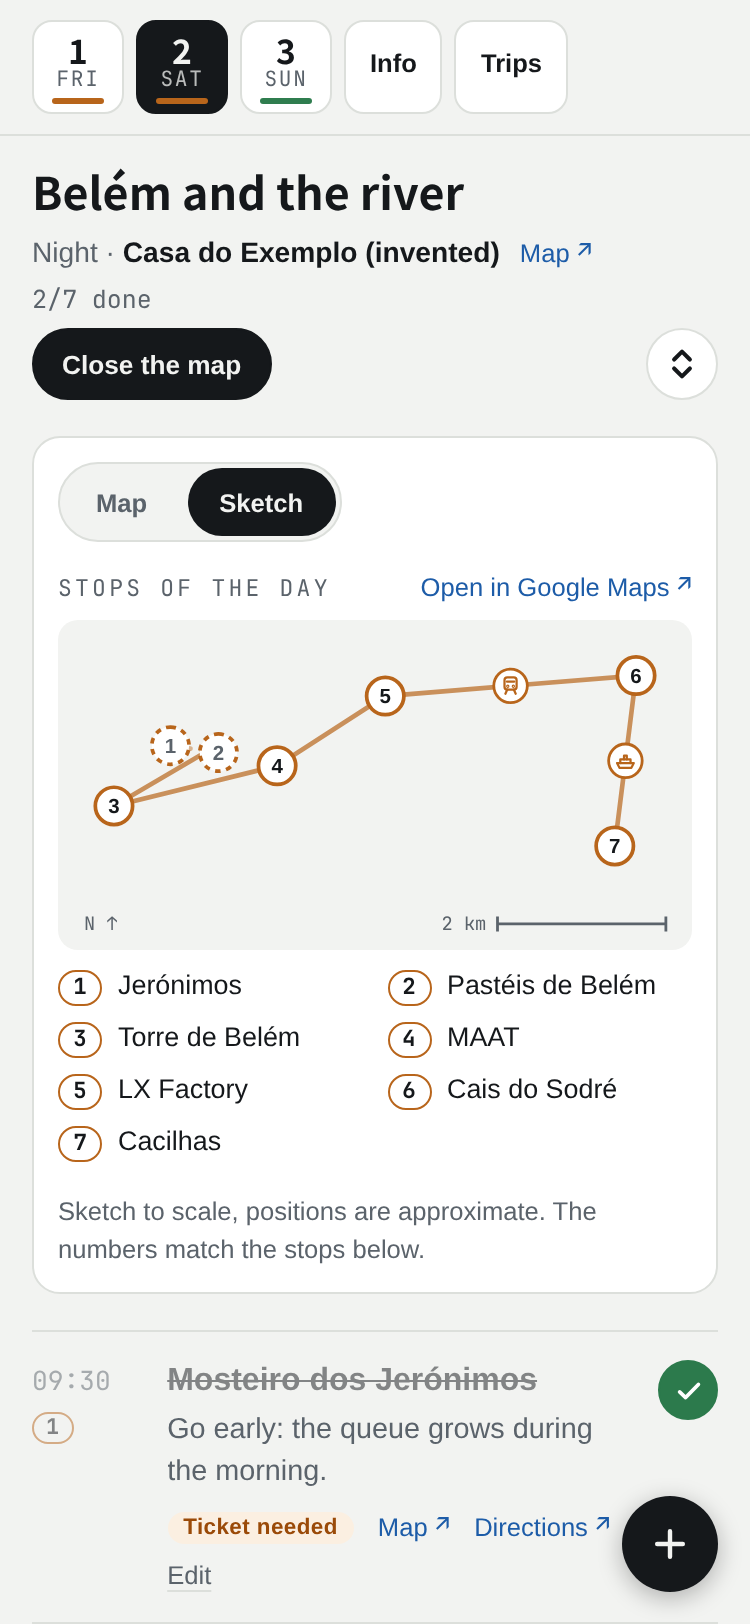
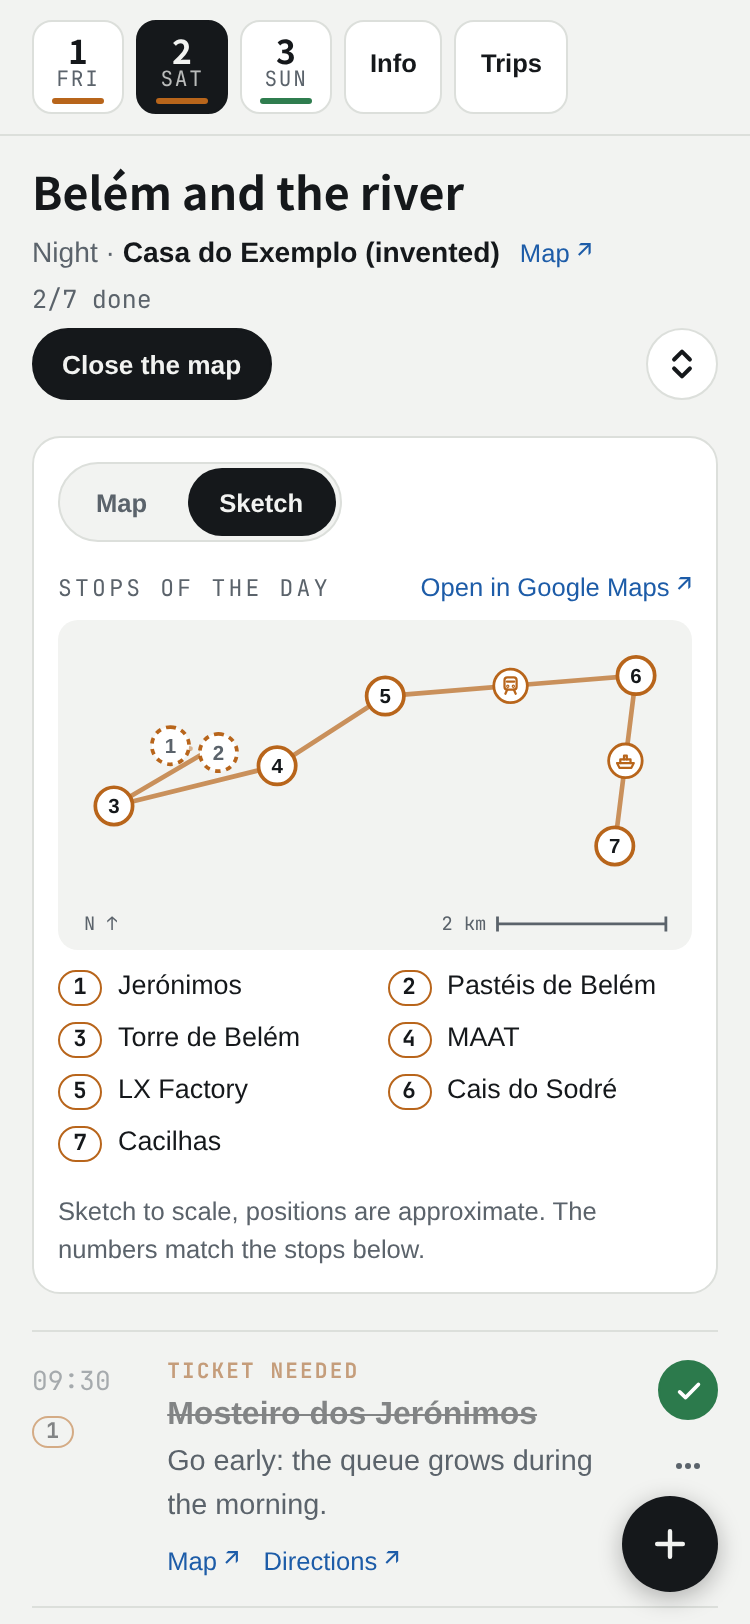
TIMP 2.1.0: a more compact stop
- The travel icon moves to the left column, under the time and the pin
  number; the title starts at the edge and has the whole line.
- Labels ("Booking needed", "Optional") sit above the title, small.
- Skip and Edit move into a ⋯ menu under the tick, so Map and Directions
  stay on one line. The menu takes the keyboard (arrows, Escape), closes on a
  tap outside, and opens upwards when there is no room below.
- README, interface texts and screenshots follow; the browser check covers
  the menu (23 checks).

Changed region(s): [[0.2147, 0.8313, 0.7973, 0.9852], [0.0307, 0.8621, 0.092, 0.8929]]

diff --git a/js/app.js b/js/app.js
@@ -15,6 +15,7 @@ const CHEVRON = '<svg viewBox="0 0 16 16" fill="none" aria-hidden="true"><path d
 const UNFOLD = '<svg viewBox="0 0 16 16" fill="none" aria-hidden="true"><path d="M4.5 6L8 2.5 11.5 6M4.5 10L8 13.5 11.5 10" stroke="currentColor" stroke-width="1.8" stroke-linecap="round" stroke-linejoin="round"/></svg>';
 const FOLD = '<svg viewBox="0 0 16 16" fill="none" aria-hidden="true"><path d="M4.5 2.5L8 6l3.5-3.5M4.5 13.5L8 10l3.5 3.5" stroke="currentColor" stroke-width="1.8" stroke-linecap="round" stroke-linejoin="round"/></svg>';
 const PLUS = '<svg viewBox="0 0 24 24" fill="none" aria-hidden="true"><path d="M12 5v14M5 12h14" stroke="currentColor" stroke-width="2.4" stroke-linecap="round"/></svg>';
+const DOTS = '<svg viewBox="0 0 16 16" aria-hidden="true"><circle cx="3.5" cy="8" r="1.5" fill="currentColor"/><circle cx="8" cy="8" r="1.5" fill="currentColor"/><circle cx="12.5" cy="8" r="1.5" fill="currentColor"/></svg>';
 const CHECK = '<svg viewBox="0 0 16 16" fill="none" aria-hidden="true"><path d="M3 8.5l3.2 3L13 4.5" stroke="currentColor" stroke-width="2" stroke-linecap="round" stroke-linejoin="round"/></svg>';
 
 const S = {
@@ -25,6 +26,7 @@ const S = {
   langPref: "auto",       // "auto" follows the trip, or a language chosen on this device
   theme: document.documentElement.dataset.theme || "auto",   // set early by js/theme.js
   openStops: new Map(),   // descriptions opened or closed one by one, until the page is closed
+  menuFor: null,          // the stop whose ⋯ menu is open
   deviceKey: "",
   useGoogle: true,        // false: always OpenStreetMap, even with a key (saves Google map loads)
   importError: null,      // {title, items}
@@ -519,20 +521,27 @@ function stopsHTML(day, planId, list, numbered, pins){
     const id = stopKey(day, planId, s, i);
     const isDone = !!S.state.done[id], isSkipped = !isDone && !!S.state.skipped[id], open = isOpen(id);
     const q = stopQuery(s);
-    // Links and the skip button stay outside the part that folds: they are always one tap away.
-    const meta = `<div class="meta">${isSkipped ? `<span class="tag off">${esc(t("skipped"))}</span>` : ""}${s.tag ? `<span class="tag">${esc(s.tag)}</span>` : ""}` +
-      (q || s.link ? `<a class="maplink" href="${esc(s.link || mapsUrl(q))}" target="_blank" rel="noopener">${esc(t("mapLink"))}</a>` : "") +
-      (q ? `<a class="maplink" href="${esc(dirUrl(q))}" target="_blank" rel="noopener">${esc(t("routeLink"))}</a>` : "") +
-      (isDone ? "" : `<button type="button" class="skip" data-skip="${esc(id)}" aria-pressed="${isSkipped}">${esc(t(isSkipped ? "unskip" : "skip"))}</button>`) +
-      (s.id ? `<button type="button" class="skip" data-edit="${esc(s.id)}">${esc(t("editStop"))}</button>` : "") + `</div>`;
+    // Left column: when, where on the map, how you get there.
     const pn = pins ? pins[s.mapLabel || s.title] : (numbered && s.lat !== undefined ? i + 1 : 0);
-    const nb = pn ? `<br><span class="nb">${pn}</span>` : "";
     const tv = s.travel ? `<span class="tvchip" role="img" aria-label="${esc(t("travel_" + s.travel))}" title="${esc(t("travel_" + s.travel))}">${travelIcon(s.travel, 16)}</span>` : "";
-    const titleRow = `<div class="h">${tv}<h3>${esc(s.title)}</h3>${s.text ? `<span class="chev">${CHEVRON}</span>` : ""}</div>`;
+    const left = `<div class="time"><span>${esc(s.time)}</span>${pn ? `<span class="nb">${pn}</span>` : ""}${tv}</div>`;
+    // Middle: a label above the title, the title, the description that folds, the links.
+    const titleRow = `<div class="h"><h3>${esc(s.title)}</h3>${s.text ? `<span class="chev">${CHEVRON}</span>` : ""}</div>`;
     const head = s.text
       ? `<div class="tap" role="button" tabindex="0" data-open="${esc(id)}" aria-expanded="${open}">${titleRow}<p class="desc${open ? "" : " clamp"}">${rich(s.text)}</p></div>`
       : titleRow;
-    return `<li class="stop${isDone ? " done" : ""}${isSkipped ? " skipped" : ""}${open ? " open" : ""}"><div class="time">${esc(s.time)}${nb}</div><div class="body">${head}${meta}</div><button class="tick" type="button" data-tick="${esc(id)}" aria-pressed="${isDone}" aria-label="${esc(t(isDone ? "markUndone" : "markDone"))}: ${esc(s.title)}">${CHECK}</button></li>`;
+    const links = (q || s.link ? `<a class="maplink" href="${esc(s.link || mapsUrl(q))}" target="_blank" rel="noopener">${esc(t("mapLink"))}</a>` : "") +
+      (q ? `<a class="maplink" href="${esc(dirUrl(q))}" target="_blank" rel="noopener">${esc(t("routeLink"))}</a>` : "");
+    const meta = isSkipped || links ? `<div class="meta">${isSkipped ? `<span class="tag off">${esc(t("skipped"))}</span>` : ""}${links}</div>` : "";
+    const eyebrow = s.tag ? `<span class="eyebrow">${esc(s.tag)}</span>` : "";
+    // Right: the tick, and the ⋯ menu with the actions used less often.
+    const menuOpen = S.menuFor === id;
+    const items = (s.id ? `<button type="button" role="menuitem" data-edit="${esc(s.id)}">${esc(t("editStop"))}</button>` : "") +
+      (isDone ? "" : `<button type="button" role="menuitem" data-skip="${esc(id)}" aria-pressed="${isSkipped}">${esc(t(isSkipped ? "unskip" : "skip"))}</button>`);
+    const side = `<div class="side"><button class="tick" type="button" data-tick="${esc(id)}" aria-pressed="${isDone}" aria-label="${esc(t(isDone ? "markUndone" : "markDone"))}: ${esc(s.title)}">${CHECK}</button>` +
+      (items ? `<button class="more" type="button" data-more="${esc(id)}" aria-haspopup="menu" aria-expanded="${menuOpen}" aria-label="${esc(t("moreActions"))}: ${esc(s.title)}">${DOTS}</button>` +
+        `<div class="menu" role="menu"${menuOpen ? "" : " hidden"}>${items}</div>` : "") + `</div>`;
+    return `<li class="stop${isDone ? " done" : ""}${isSkipped ? " skipped" : ""}${open ? " open" : ""}">${left}<div class="body">${eyebrow}${head}${meta}</div>${side}</li>`;
   }).join("") + `</ol>`;
 }
 
@@ -666,6 +675,8 @@ function refocus(selector){
 }
 
 $app.addEventListener("click", e => {
+  // Any tap outside the open ⋯ menu closes it first (its own button toggles it below).
+  if(S.menuFor && !e.target.closest(".menu") && !e.target.closest("[data-more]")) hideMenu();
   const tick = e.target.closest("[data-tick]");
   if(tick){
     const id = tick.dataset.tick;
@@ -679,14 +690,24 @@ $app.addEventListener("click", e => {
   const skip = e.target.closest("[data-skip]");
   if(skip){
     const id = skip.dataset.skip;
+    S.menuFor = null;
     if(S.state.skipped[id]) delete S.state.skipped[id]; else S.state.skipped[id] = 1;
     saveState();
     render();
     refocus(`[data-skip="${CSS.escape(id)}"]`);
     return;
   }
+  const more = e.target.closest("[data-more]");
+  if(more){
+    S.menuFor = S.menuFor === more.dataset.more ? null : more.dataset.more;
+    render();
+    const menu = S.menuFor && document.querySelector(`[data-more="${CSS.escape(S.menuFor)}"] + .menu`);
+    if(menu){ placeMenu(menu); menu.querySelector("[role=menuitem]").focus(); }
+    else refocus(`[data-more="${CSS.escape(more.dataset.more)}"]`);
+    return;
+  }
   const edit = e.target.closest("[data-edit]");
-  if(edit){ editStop(edit.dataset.edit); return; }
+  if(edit){ S.menuFor = null; render(); editStop(edit.dataset.edit); return; }
   const tap = e.target.closest("[data-open]");
   if(tap){ toggleStop(tap.dataset.open); return; }
   if(e.target.closest("[data-expand]")){
@@ -770,6 +791,35 @@ function toggleStop(id){
   refocus(`[data-open="${CSS.escape(id)}"]`);
 }
 
+// The ⋯ menu opens upwards when there is no room below it (the + button is there).
+function placeMenu(menu){
+  menu.classList.toggle("up", menu.getBoundingClientRect().bottom > window.innerHeight - 76);
+}
+
+// Closes the menu where it is, without redrawing the page.
+function hideMenu(){
+  S.menuFor = null;
+  document.querySelectorAll(".menu").forEach(m => { m.hidden = true; });
+  document.querySelectorAll("[data-more]").forEach(b => b.setAttribute("aria-expanded", "false"));
+}
+
+function closeMenu(){
+  const id = S.menuFor;
+  hideMenu();
+  if(id) refocus(`[data-more="${CSS.escape(id)}"]`);
+}
+
+// Menu keys: Escape closes it, arrows move between its items.
+document.addEventListener("keydown", e => {
+  if(!S.menuFor) return;
+  if(e.key === "Escape"){ e.preventDefault(); closeMenu(); return; }
+  const items = [...document.querySelectorAll(".menu:not([hidden]) [role=menuitem]")];
+  const at = items.indexOf(document.activeElement);
+  if(at < 0 || (e.key !== "ArrowDown" && e.key !== "ArrowUp")) return;
+  e.preventDefault();
+  items[(at + (e.key === "ArrowDown" ? 1 : items.length - 1)) % items.length].focus();
+});
+
 // The description is a button for the keyboard too.
 $app.addEventListener("keydown", e => {
   if(e.key !== "Enter" && e.key !== " ") return;
@@ -802,7 +852,10 @@ $file.addEventListener("change", async () => {
   }
 });
 
-window.addEventListener("hashchange", () => { S.importError = null; render(); window.scrollTo(0, 0); });
+window.addEventListener("hashchange", () => { S.importError = null; S.menuFor = null; render(); window.scrollTo(0, 0); });
+// A tap outside the app's content (the strip of days, the + button) closes the menu.
+// The path is the one at the time of the tap: the page may have been redrawn since.
+document.addEventListener("click", e => { if(S.menuFor && !e.composedPath().includes($app)) closeMenu(); });
 window.addEventListener("resize", markCut);
 // When the phone switches between light and dark, maps follow it.
 if(darkQuery && darkQuery.addEventListener) darkQuery.addEventListener("change", () => { if(S.theme === "auto") render(); });

diff --git a/css/app.css b/css/app.css
@@ -84,7 +84,7 @@ h1{font:700 1.4rem/1.25 var(--f-display);margin:0;text-wrap:balance}
 ol.stops{list-style:none;margin:0;padding:0}
 .stop{display:grid;grid-template-columns:4.3rem 1fr auto;gap:12px;padding:14px 0;border-top:1px solid var(--line)}
 .stop:last-child{border-bottom:1px solid var(--line)}
-.time{font:500 .82rem/1.5 var(--f-mono);font-variant-numeric:tabular-nums;color:var(--muted);padding-top:1px;overflow-wrap:anywhere}
+.time{font:500 .82rem/1.5 var(--f-mono);font-variant-numeric:tabular-nums;color:var(--muted);padding-top:1px;overflow-wrap:anywhere;display:grid;justify-items:start;align-content:start;gap:7px;min-width:0}
 .body{min-width:0}
 .body h3{margin:0;font:600 1rem/1.35 var(--f-body)}
 .body p{margin:.2rem 0 0;color:var(--muted);font-size:.9rem}
@@ -105,7 +105,20 @@ ol.stops{list-style:none;margin:0;padding:0}
 .stop.cut .chev,.stop.open .chev{display:block}
 .stop.open .chev{transform:rotate(180deg)}
 .desc.clamp{display:-webkit-box;-webkit-box-orient:vertical;-webkit-line-clamp:2;line-clamp:2;overflow:hidden}
-.skip{border:0;background:none;padding:2px 0;font:500 .8rem var(--f-body);color:var(--muted);cursor:pointer;text-decoration:underline;text-decoration-color:var(--line);text-underline-offset:3px}
+/* a label above the title: "Booking needed", "Optional" */
+.eyebrow{display:block;font:600 .66rem/1.2 var(--f-mono);letter-spacing:.1em;text-transform:uppercase;color:var(--warn);margin-bottom:4px}
+.stop.done .eyebrow,.stop.skipped .eyebrow{opacity:.5}
+
+/* right column: the tick, and the ⋯ menu below it */
+.side{display:grid;justify-items:center;align-content:start;gap:8px;position:relative}
+.more{width:30px;height:30px;border-radius:50%;border:0;background:none;color:var(--muted);display:grid;place-items:center;cursor:pointer;padding:0}
+.more svg{width:16px;height:16px}
+.more:hover,.more[aria-expanded="true"]{background:var(--line);color:var(--ink)}
+.menu{position:absolute;top:72px;right:0;z-index:6;background:var(--surface);border:1px solid var(--line);border-radius:12px;box-shadow:0 8px 24px rgba(0,0,0,.28);display:grid;min-width:160px;padding:4px}
+.menu.up{top:auto;bottom:72px}
+.menu[hidden]{display:none}
+.menu button{border:0;background:none;color:var(--ink);font:500 .92rem var(--f-body);text-align:left;padding:11px 12px;border-radius:8px;cursor:pointer;min-height:44px}
+.menu button:hover,.menu button:focus-visible{background:var(--bg)}
 .tag.off{background:var(--line);color:var(--muted)}
 .stop.skipped .body h3,.stop.skipped .time,.stop.skipped .desc{opacity:.5}
 .stop.skipped .body h3{text-decoration:line-through;text-decoration-thickness:1px}
@@ -114,7 +127,7 @@ ol.stops{list-style:none;margin:0;padding:0}
 .iconbtn svg{width:18px;height:18px}
 .iconbtn[aria-pressed="true"]{background:var(--ink);color:var(--bg);border-color:var(--ink)}
 /* how a stop is travelled: metro, train, plane, boat */
-.tvchip{flex:0 0 auto;display:inline-grid;place-items:center;width:26px;height:26px;border-radius:7px;background:color-mix(in srgb,var(--c,var(--muted)) 16%,var(--surface));color:var(--c,var(--ink));margin-top:-1px}
+.tvchip{flex:0 0 auto;display:inline-grid;place-items:center;width:26px;height:26px;border-radius:7px;background:color-mix(in srgb,var(--c,var(--muted)) 16%,var(--surface));color:var(--c,var(--ink))}
 .tvchip svg{display:block}
 .tap .h,.body > .h{display:flex;align-items:flex-start;gap:8px}
 .h h3{flex:1 1 auto;min-width:0}
@@ -130,7 +143,7 @@ ol.stops{list-style:none;margin:0;padding:0}
 .tvpin.gone{border-style:dashed;opacity:.7;box-shadow:none}
 .alt{font-size:.88rem;color:var(--muted);margin:0}
 .alt b{color:var(--ink);font-weight:600}
-.nb{display:inline-block;margin-top:5px;font:600 .68rem var(--f-mono);border:1.5px solid var(--c,var(--line));border-radius:999px;padding:0 6px;color:var(--ink)}
+.nb{display:inline-block;font:600 .68rem var(--f-mono);border:1.5px solid var(--c,var(--line));border-radius:999px;padding:0 6px;color:var(--ink)}
 
 /* sections and cards */
 .sec{display:grid;gap:10px}

diff --git a/js/i18n.js b/js/i18n.js
@@ -31,7 +31,7 @@ export const STRINGS = {
     mapLoading: "Loading the map…",
     mapFailed: "The map could not be loaded. Use the sketch, or try again with a connection.",
     googleKeyBad: "Google Maps refused the key for this site: showing OpenStreetMap instead.",
-    footDay: "Times are indicative. Tap a description to read it all. Tap the circle to mark a stop as done, or «Skip» if you leave it out: both are saved on this phone.",
+    footDay: "Times are indicative. Tap a description to read it all. Tap the circle to mark a stop as done; ⋯ has Skip and Edit. Ticks and skips are saved on this phone.",
     markDone: "Mark as done", markUndone: "Mark as not done",
     skip: "Skip", unskip: "Restore", skipped: "Skipped", skippedOne: "1 skipped", skippedCount: "{n} skipped",
     expandAll: "Show all descriptions in full", collapseAll: "Shorten all descriptions",
@@ -43,7 +43,7 @@ export const STRINGS = {
     updateTrip: "Load or update a trip",
     removeConfirm: "Delete «{t}» from this device? The stops you marked as done are deleted too.",
     imported: "«{t}» loaded.", removed: "Trip deleted.",
-    addStop: "Add a stop", editStop: "Edit",
+    addStop: "Add a stop", editStop: "Edit", moreActions: "More",
     newStopTitle: "New stop", editStopTitle: "Edit stop",
     fAddress: "Address or Google Maps link",
     fAddressPh: "Paste or write here",
@@ -118,7 +118,7 @@ export const STRINGS = {
     mapLoading: "Carico la mappa…",
     mapFailed: "Non sono riuscito a caricare la mappa. Usa lo schema, o riprova con la rete.",
     googleKeyBad: "Google Maps ha rifiutato la chiave per questo sito: uso OpenStreetMap.",
-    footDay: "Gli orari sono indicativi. Toccate una descrizione per leggerla tutta. Toccate il cerchio per segnare una tappa fatta, o «Salta» se la lasciate fuori: resta salvato su questo telefono.",
+    footDay: "Gli orari sono indicativi. Toccate una descrizione per leggerla tutta. Toccate il cerchio per segnare una tappa fatta; in ⋯ ci sono Salta e Modifica. Spunte e tappe saltate restano su questo telefono.",
     markDone: "Segna come fatta", markUndone: "Segna come da fare",
     skip: "Salta", unskip: "Ripristina", skipped: "Saltata", skippedOne: "1 saltata", skippedCount: "{n} saltate",
     expandAll: "Mostra tutte le descrizioni per intero", collapseAll: "Accorcia tutte le descrizioni",
@@ -130,7 +130,7 @@ export const STRINGS = {
     updateTrip: "Carica o aggiorna un viaggio",
     removeConfirm: "Eliminare «{t}» da questo dispositivo? Si perdono anche le tappe segnate come fatte.",
     imported: "«{t}» caricato.", removed: "Viaggio eliminato.",
-    addStop: "Aggiungi una tappa", editStop: "Modifica",
+    addStop: "Aggiungi una tappa", editStop: "Modifica", moreActions: "Altro",
     newStopTitle: "Nuova tappa", editStopTitle: "Modifica tappa",
     fAddress: "Indirizzo o link di Google Maps",
     fAddressPh: "Incolla o scrivi qui",

diff --git a/README.md b/README.md
@@ -34,6 +34,8 @@ Retake them with <code>npm run screenshots</code>.</sub></p>
 - Every change is a version, like a commit in Git. Share the file, and when a friend
   changed it too, the app joins the two.
 - Tick the stops you have done, or skip the ones you leave out. The app remembers both.
+- Each stop at a glance: time, pin number and how you get there on the left, a label
+  like "Booking needed" above the title, Map and Directions always one tap away.
 - A map for every day: interactive when you are online (Google Maps or OpenStreetMap),
   a sketch to scale when you are not. What is behind you is drawn dashed.
 - One tap to open any stop in Google Maps, with directions.
@@ -76,8 +78,9 @@ Trips, remove the app from the Home Screen, add it again and load the files.
 
 ## Change the trip on the way
 
-Tap **+** at the bottom right of a day to add a stop, or **Edit** under a stop to change
-it, move it to another day, or delete it.
+Tap **+** at the bottom right of a day to add a stop. Each stop has a **⋯** button under
+its tick: **Edit** changes it, moves it to another day or deletes it; **Skip** marks a
+stop you leave out.
 
 The quickest way to fill in a stop is to paste what Google Maps gives you. The form
 reads it on the phone:

diff --git a/CHANGELOG.md b/CHANGELOG.md
@@ -4,6 +4,18 @@ Versions follow [Semantic Versioning](https://semver.org/). The trip file format
 its own version (`travel-in-my-pocket/1`), which has not changed: files written for
 1.0 load in 2.0, and 1.0 ignores what 2.0 adds.
 
+## 2.1.0
+
+A more compact stop, so more of the day fits on the screen.
+
+- The way you get there (metro, train, plane, boat) moves to the left column, under the
+  time and the pin number. The title starts at the edge and has the whole line.
+- Labels like "Booking needed" sit above the title, small, and no longer push the links
+  onto a second line.
+- Skip and Edit move into a ⋯ menu under the tick. The links row keeps only Map and
+  Directions, on one line. The menu works with the keyboard, closes with Escape or a tap
+  outside, and opens upwards when there is no room below.
+
 ## 2.0.2
 
 - "Save the file" works on Android. Chrome offers the share sheet but refuses to share
